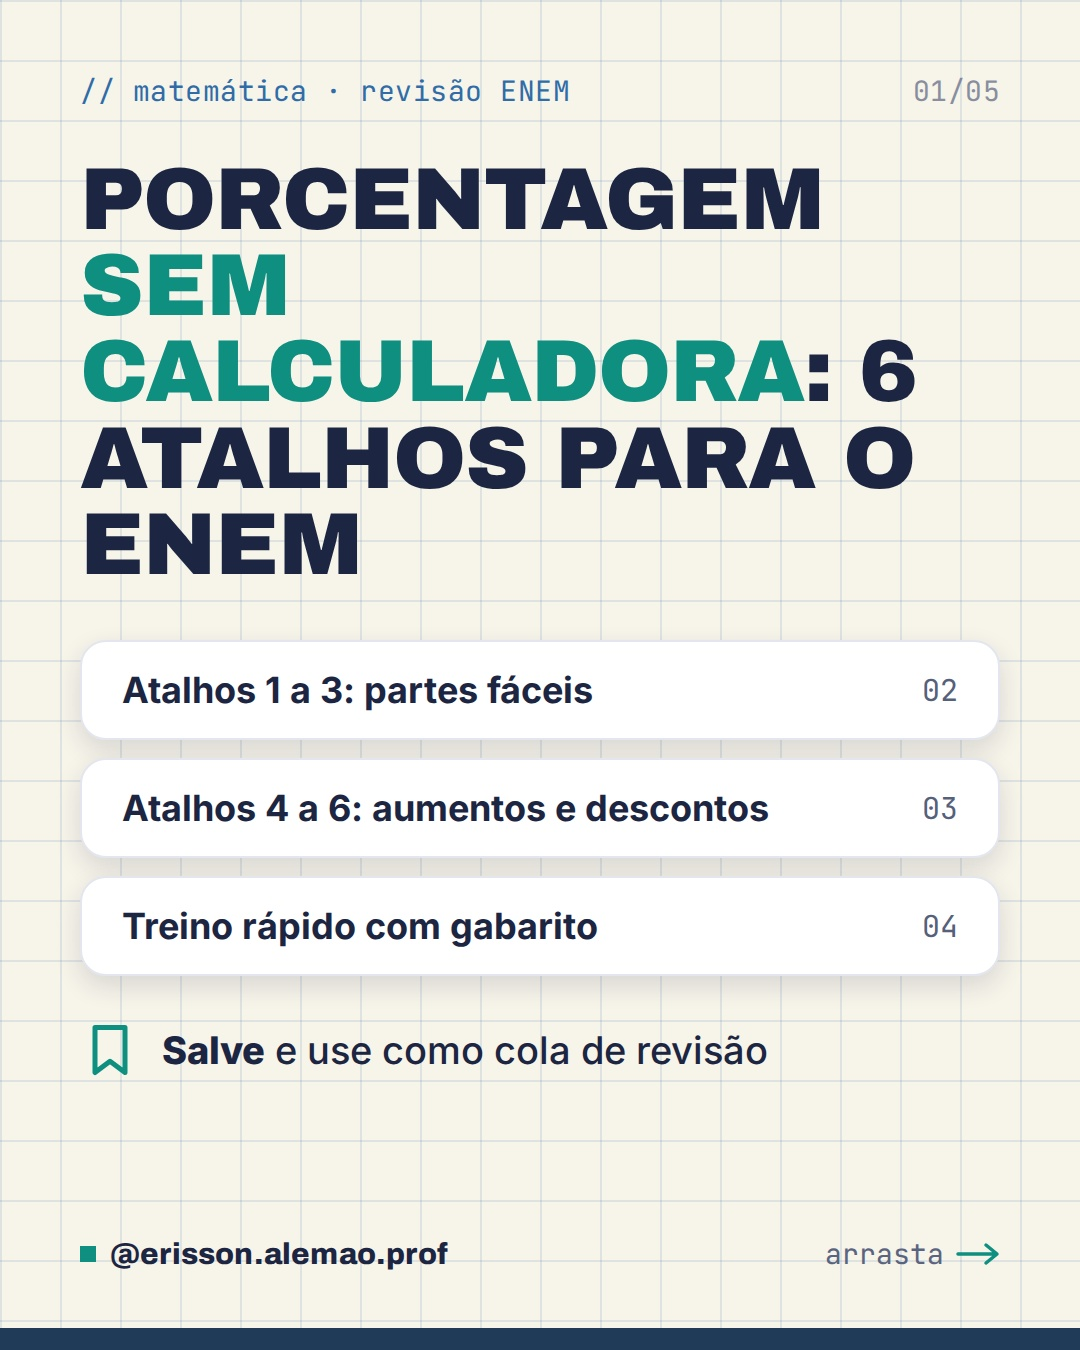
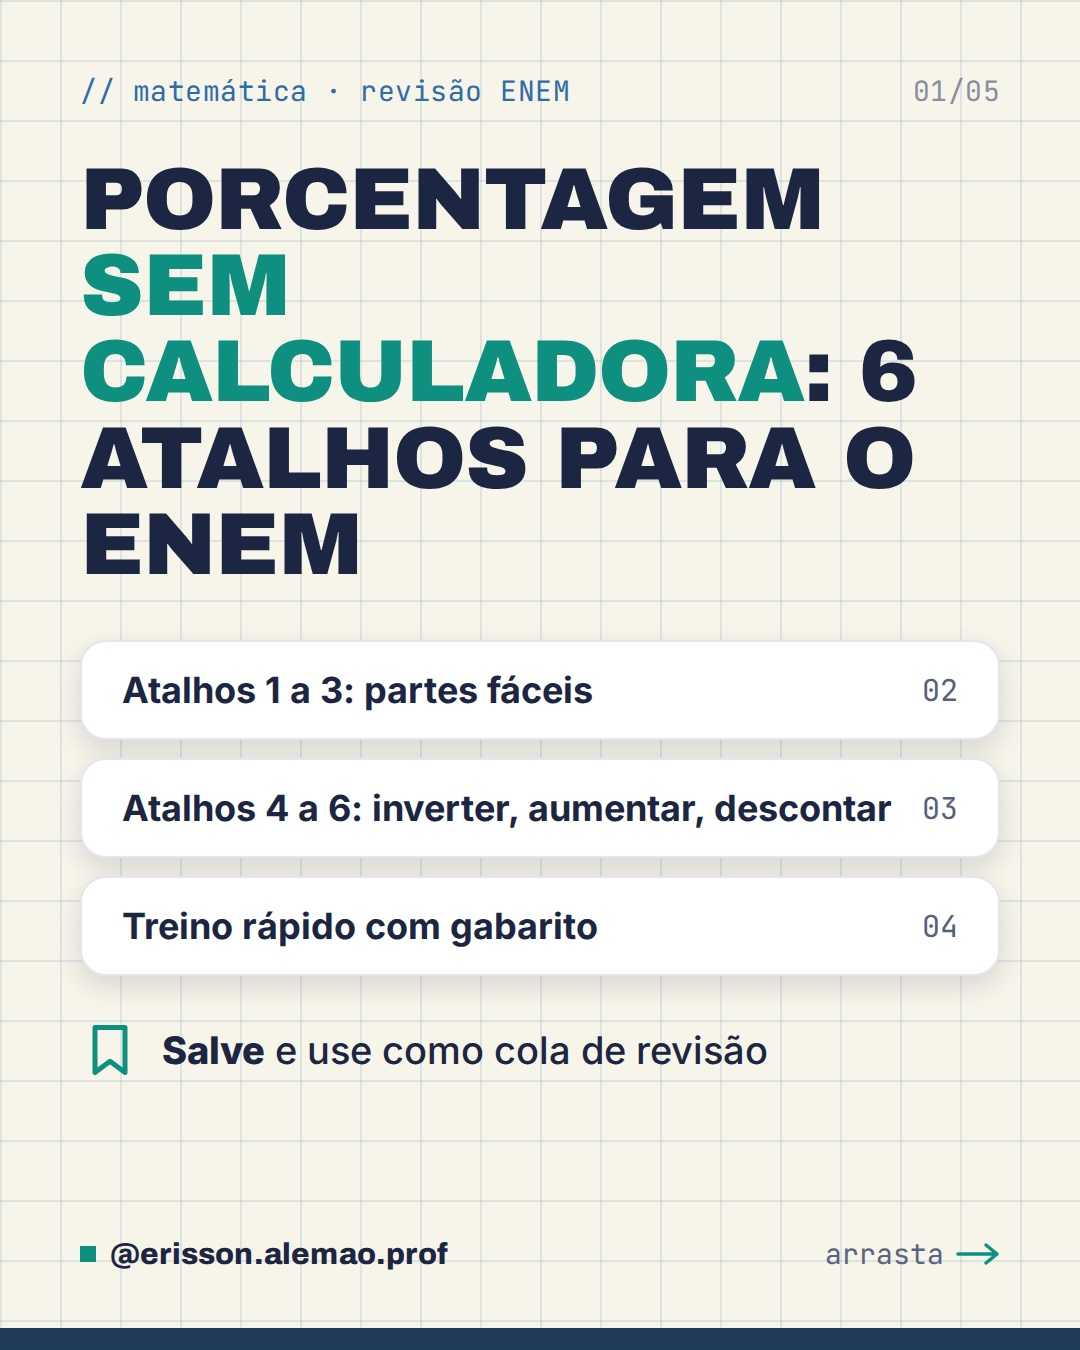
Second review of the 2026-10-05..11 posts: physics precision and wording
- navio: buoyancy > weight means upward acceleration; iceberg in sea water ~90%
- ceu-azul: drop disputed 'absorbed violet' claim; clearer 'why not violet' label
- sequencia: difference wording (term minus previous)
- graficos-mru: MRUV s×t and v×t now describe the same motion (from rest)
- carro-72, pizza, conversoes, obmep: remove overstatements, mark approximations
- atalhos: slide title matches content; doppler/piso: clearer CTA titles; areas: ℓ

Claude-Session: https://claude.ai/code/session_017LzoVfwMgSzSStHM9HLx79

Changed region(s): [[0.3361, 0.5911, 0.825, 0.6222]]

diff --git a/instagram/2026-10-05/atalhos-porcentagem.html b/instagram/2026-10-05/atalhos-porcentagem.html
@@ -23,7 +23,7 @@
   <h1 style="margin-top:48px; font-size:88px;">Porcentagem <em>sem calculadora</em>: 6 atalhos para o ENEM</h1>
   <div style="margin-top:52px; display:grid; gap:18px;">
     <div class="card" style="display:flex; justify-content:space-between; align-items:center; padding:26px 40px;"><span style="font-size:36px; font-weight:700;">Atalhos 1 a 3: partes fáceis</span><span class="mono" style="font-size:30px; color:var(--ink-soft);">02</span></div>
-    <div class="card" style="display:flex; justify-content:space-between; align-items:center; padding:26px 40px;"><span style="font-size:36px; font-weight:700;">Atalhos 4 a 6: aumentos e descontos</span><span class="mono" style="font-size:30px; color:var(--ink-soft);">03</span></div>
+    <div class="card" style="display:flex; justify-content:space-between; align-items:center; padding:26px 40px;"><span style="font-size:36px; font-weight:700;">Atalhos 4 a 6: inverter, aumentar, descontar</span><span class="mono" style="font-size:30px; color:var(--ink-soft);">03</span></div>
     <div class="card" style="display:flex; justify-content:space-between; align-items:center; padding:26px 40px;"><span style="font-size:36px; font-weight:700;">Treino rápido com gabarito</span><span class="mono" style="font-size:30px; color:var(--ink-soft);">04</span></div>
   </div>
   <div style="margin-top:44px; display:flex; align-items:center; gap:22px;">
@@ -48,7 +48,7 @@
 
 <!-- 3 · ATALHOS 4-6 -->
 <section class="slide" data-eyebrow="// atalhos 4 a 6">
-  <h2 style="margin-top:60px;">Aumentos e <em>descontos</em></h2>
+  <h2 style="margin-top:60px;">Inverter, aumentar e <em>descontar</em></h2>
   <div class="rows" style="margin-top:44px;">
     <div class="row"><span class="nm"><b>4 · Inverta</b>ex.: 8% de 50 = 50% de 8 = 4</span><span class="fx" style="font-size:32px;">x% de y = y% de x</span></div>
     <div class="row"><span class="nm"><b>5 · Aumento de p%</b>ex.: +15% → × 1,15</span><span class="fx">× (1 + p/100)</span></div>

diff --git a/instagram/2026-10-09/areas.html b/instagram/2026-10-09/areas.html
@@ -26,7 +26,7 @@
 <section class="slide" data-eyebrow="// bloco 1">
   <h2 style="margin-top:60px;"><em>Quadriláteros</em></h2>
   <div class="rows" style="margin-top:44px;">
-    <div class="row"><span class="nm">Quadrado</span><span class="fx">l²</span></div>
+    <div class="row"><span class="nm">Quadrado</span><span class="fx">ℓ²</span></div>
     <div class="row"><span class="nm">Retângulo</span><span class="fx">b · h</span></div>
     <div class="row"><span class="nm">Paralelogramo</span><span class="fx">b · h</span></div>
     <div class="row"><span class="nm">Trapézio</span><span class="fx">(B + b) · h / 2</span></div>
@@ -43,7 +43,7 @@
   <h2 style="margin-top:60px;">Triângulos e <em>círculo</em></h2>
   <div class="rows" style="margin-top:44px;">
     <div class="row"><span class="nm">Triângulo</span><span class="fx">b · h / 2</span></div>
-    <div class="row"><span class="nm">Triângulo equilátero</span><span class="fx">l² · √3 / 4</span></div>
+    <div class="row"><span class="nm">Triângulo equilátero</span><span class="fx">ℓ² · √3 / 4</span></div>
     <div class="row"><span class="nm">Círculo</span><span class="fx">π · r²</span></div>
     <div class="row"><span class="nm">Setor circular (ângulo α)</span><span class="fx">π · r² · α / 360°</span></div>
   </div>

diff --git a/instagram/2026-10-08/graficos-mru.html b/instagram/2026-10-08/graficos-mru.html
@@ -58,11 +58,11 @@
     <div class="card">
       <div class="tt">s × t</div>
       <svg viewBox="0 0 300 220" width="100%"><path class="ax" d="M40 190 H285 M40 190 V15"/><path class="ln" d="M40 175 Q170 175 265 30"/><text class="lb" x="270" y="215">t</text><text class="lb" x="8" y="30">s</text></svg>
-      <div class="nt">Parábola.<br><b>Concavidade para cima: a &gt; 0</b></div>
+      <div class="nt">Parábola (aqui, partindo do repouso).<br><b>Concavidade para cima: a &gt; 0</b></div>
     </div>
     <div class="card">
       <div class="tt">v × t</div>
-      <svg viewBox="0 0 300 220" width="100%"><path class="ar" d="M40 190 L40 160 L250 50 L250 190 Z"/><path class="ax" d="M40 190 H285 M40 190 V15"/><path class="ln" d="M40 160 L250 50"/><text class="lb" x="270" y="215">t</text><text class="lb" x="8" y="30">v</text></svg>
+      <svg viewBox="0 0 300 220" width="100%"><path class="ar" d="M40 190 L250 50 L250 190 Z"/><path class="ax" d="M40 190 H285 M40 190 V15"/><path class="ln" d="M40 190 L250 50"/><text class="lb" x="270" y="215">t</text><text class="lb" x="8" y="30">v</text></svg>
       <div class="nt">Reta inclinada.<br><b>Inclinação = aceleração</b></div>
     </div>
   </div>

diff --git a/instagram/2026-10-07/navio.html b/instagram/2026-10-07/navio.html
@@ -87,11 +87,11 @@
   <div style="margin-top:44px; display:grid; gap:30px;">
     <div style="display:flex; gap:26px;">
       <span class="chip w" style="flex:none; height:fit-content;">PEGADINHA</span>
-      <p class="body" style="font-size:34px;">Marcou <b>A</b>? O empuxo só é maior que o peso enquanto o corpo está <b>subindo</b>. Em equilíbrio, E = P.</p>
+      <p class="body" style="font-size:34px;">Marcou <b>A</b>? Se o empuxo fosse maior que o peso, o bloco seria <b>acelerado para cima</b>. Parado, em equilíbrio, E = P.</p>
     </div>
     <div style="display:flex; gap:26px;">
       <span class="chip ghost w" style="flex:none; height:fit-content;">BÔNUS</span>
-      <p class="body" style="font-size:34px;">A fração submersa é d<sub>corpo</sub> / d<sub>líquido</sub>. O gelo (≈ 0,92 g/cm³) fica cerca de <b>92%</b> submerso na água doce: a "ponta do iceberg".</p>
+      <p class="body" style="font-size:34px;">A fração submersa é d<sub>corpo</sub> / d<sub>líquido</sub>. Gelo (≈ 0,92 g/cm³) no mar (≈ 1,03 g/cm³): cerca de <b>90%</b> fica submerso. Só a "ponta do iceberg" aparece.</p>
     </div>
   </div>
 </section>

diff --git a/instagram/2026-10-10/obmep-segunda-fase.html b/instagram/2026-10-10/obmep-segunda-fase.html
@@ -60,7 +60,7 @@
     <div><svg viewBox="0 0 48 48" width="66" height="66"><use href="#icon-check"/></svg><p>Separe documento e materiais</p></div>
     <div><svg viewBox="0 0 48 48" width="66" height="66"><use href="#icon-check"/></svg><p>Confira o endereço e calcule o tempo de deslocamento</p></div>
     <div><svg viewBox="0 0 48 48" width="66" height="66"><use href="#icon-check"/></svg><p>Revise 2 ou 3 problemas que você já resolveu</p></div>
-    <div><svg viewBox="0 0 48 48" width="66" height="66"><use href="#icon-check"/></svg><p>Durma bem: maratona de estudo na véspera atrapalha</p></div>
+    <div><svg viewBox="0 0 48 48" width="66" height="66"><use href="#icon-check"/></svg><p>Durma bem: maratona de estudo na véspera costuma atrapalhar</p></div>
   </div>
   <div class="tip">
     <div class="lbl">// no dia</div>

diff --git a/instagram/2026-10-10/sequencia.html b/instagram/2026-10-10/sequencia.html
@@ -33,7 +33,7 @@
 <!-- 2 · RESPOSTA -->
 <section class="slide" data-eyebrow="// olhe as diferenças">
   <h2 style="margin-top:64px;">Resposta: <em>42</em></h2>
-  <p class="body" style="margin-top:40px; font-size:37px;">Subtraia cada termo do anterior: as diferenças crescem <b>de 2 em 2</b>.</p>
+  <p class="body" style="margin-top:40px; font-size:37px;">Calcule a diferença entre cada termo e o anterior: elas crescem <b>de 2 em 2</b>.</p>
   <div class="card" style="margin-top:44px; padding:44px 20px;">
     <div class="seq" style="font-size:60px;"><span>2</span><span>6</span><span>12</span><span>20</span><span>30</span><span style="color:var(--red)">42</span></div>
     <div class="dif" style="font-size:40px;"><span>+4</span><span>+6</span><span>+8</span><span>+10</span><span>+12</span></div>

diff --git a/instagram/2026-10-06/doppler.html b/instagram/2026-10-06/doppler.html
@@ -108,7 +108,7 @@
 
 <!-- 6 · CTA -->
 <section class="slide" data-eyebrow="// reta final do ENEM">
-  <h2 style="margin-top:64px; font-size:92px;">Ondas <em>caem</em>. Não deixe passar.</h2>
+  <h2 style="margin-top:64px; font-size:92px;">Ondulatória <em>cai</em>. Não deixe passar.</h2>
   <div class="cta" style="margin-top:60px;">
     <div><svg viewBox="0 0 48 48" width="80" height="80"><use href="#icon-save"/></svg><p class="body" style="font-size:39px;"><b>Salve</b> para revisar ondulatória</p></div>
     <div><svg viewBox="0 0 48 48" width="80" height="80"><use href="#icon-send"/></svg><p class="body" style="font-size:39px;"><b>Envie</b> para quem imita a sirene passando</p></div>

diff --git a/instagram/2026-10-08/piso-frio.html b/instagram/2026-10-08/piso-frio.html
@@ -110,7 +110,7 @@
 
 <!-- 6 · CTA -->
 <section class="slide" data-eyebrow="// reta final do ENEM">
-  <h2 style="margin-top:64px; font-size:92px;">Calor <em>cai</em>. Não deixe passar.</h2>
+  <h2 style="margin-top:64px; font-size:92px;">Termologia <em>cai</em>. Não deixe passar.</h2>
   <div class="cta" style="margin-top:60px;">
     <div><svg viewBox="0 0 48 48" width="80" height="80"><use href="#icon-save"/></svg><p class="body" style="font-size:39px;"><b>Salve</b> para revisar termologia</p></div>
     <div><svg viewBox="0 0 48 48" width="80" height="80"><use href="#icon-send"/></svg><p class="body" style="font-size:39px;"><b>Envie</b> para quem jura que o piso está gelado</p></div>

diff --git a/instagram/2026-10-06/conversoes.html b/instagram/2026-10-06/conversoes.html
@@ -54,7 +54,7 @@
   <h2 style="margin-top:60px;">Densidade, massa e <em>energia</em></h2>
   <div class="rows big" style="margin-top:44px;">
     <div class="row"><span class="nm">1 g/cm³</span><span class="fx">1.000 kg/m³</span></div>
-    <div class="row"><span class="nm">Água</span><span class="fx">1 kg/L</span></div>
+    <div class="row"><span class="nm">Água (aproximado)</span><span class="fx">≈ 1 kg/L</span></div>
     <div class="row"><span class="nm">1 tonelada</span><span class="fx">1.000 kg</span></div>
     <div class="row"><span class="nm">1 kWh</span><span class="fx">3,6 × 10<sup>6</sup> J</span></div>
   </div>

diff --git a/instagram/2026-10-09/carro-72.html b/instagram/2026-10-09/carro-72.html
@@ -46,7 +46,7 @@
     <div class="row"><span class="nm">2 segundos</span><span class="fx">40 m</span></div>
     <div class="row"><span class="nm">3 segundos</span><span class="fx" style="color:var(--red)">60 m</span></div>
   </div>
-  <p class="body" style="margin-top:32px; font-size:34px;">60 m é mais da metade de um campo de futebol.</p>
+  <p class="body" style="margin-top:32px; font-size:34px;">60 m é cerca de metade de um campo de futebol.</p>
   <div class="tip" style="margin-top:32px;">
     <div class="lbl">// desafio bônus</div>
     <p>E a <b>108 km/h</b>, quantos metros o carro anda em 2 segundos? <b>Comente!</b></p>

diff --git a/instagram/2026-10-10/ceu-azul.html b/instagram/2026-10-10/ceu-azul.html
@@ -67,8 +67,8 @@
     <text x="20" y="262" font-family="JetBrains Mono" font-weight="700" font-size="26" style="fill:var(--red)">pôr do sol: caminho longo</text>
   </svg>
   <div class="tip" style="margin-top:24px;">
-    <div class="lbl">// e por que não roxo?</div>
-    <p>O Sol emite menos violeta, parte dele é absorvida no alto da atmosfera e nossos olhos são menos sensíveis a essa cor.</p>
+    <div class="lbl">// e por que o céu não é roxo?</div>
+    <p>O Sol emite menos violeta que azul, e nossos olhos são bem menos sensíveis ao violeta. Somando tudo, vemos azul.</p>
   </div>
 </section>
 

diff --git a/instagram/2026-10-09/pizza.html b/instagram/2026-10-09/pizza.html
@@ -50,7 +50,7 @@
   </div>
   <div class="tip">
     <div class="lbl">// na pizzaria</div>
-    <p>Compare o <b>preço por cm²</b>. Quase sempre, a pizza maior sai mais em conta.</p>
+    <p>Compare o <b>preço por cm²</b>. Muitas vezes a pizza maior sai mais em conta, mas só a conta confirma.</p>
   </div>
 </section>
 
